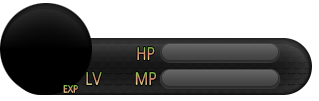
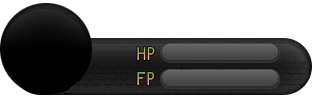
스킬 사용시 HUD가 즉각 반응 하도록 함
몬스터가 한 마리 이상 죽었을 때,
스킬 피격 판정에서 렉이 좀 심하게 걸리는 문제가 있음.

Changed region(s): [[0.1975, 0.7129, 0.3386, 0.9208], [0.4232, 0.7129, 0.5078, 0.8614]]

diff --git a/Project2/js/plugins.js b/Project2/js/plugins.js
@@ -12,7 +12,7 @@ var $plugins =
 {"name":"QuasiSight","status":true,"description":"v1.08\r\nQuasi Movement Addon: A line of sight script with real time shadow casting.\r\n<QuasiSight>","parameters":{"Show Sight":"true"}},
 {"name":"QuasiMovementPlus","status":true,"description":"Quasi Movement Addon: Adds extra features to Quasi Movement\r\nVersion 1.11","parameters":{"Extra Interaction Distance":"12","Dash on Mouse":"false","Face towards Mouse":"false","Disable Vertical Input":"false","Disable Horizontal Input":"false","Adjust Jump":"true"}},
 {"name":"QuasiABSHudA","status":true,"description":"v1.03 Adds a hud for Quasi ABS ( Version A )\n<QuasiABSHudA>","parameters":{"Show Unassigned Keys":"false"}},
-{"name":"RS_HUD_4m","status":true,"description":"(v1.2.2) This plugin draws the HUD, which displays the hp and mp and exp and level of each party members.","parameters":{"--- Image Name":"","EXP Gauge":"exr","Empty Gauge":"gauge","HP Gauge":"hp","MP Gauge":"mp","HUD Background":"hud_window_empty","Masking":"masking","--- Image Custom Position":"","Face Position":"0, 0, true","HP Position":"160, 43, true","MP Position":"160, 69, true","EXP Position":"83, 91, true","HP Text Position":"160, 53, true","MP Text Position":"160, 79, true","Level Text Position":"60, 80, true","EXP Text Position":"120.5, 93, true","Name Text Position":"54, 53, false","--- Noraml":"","Width":"317","Height":"101","Margin":"0","Gaussian Blur":"true","Show":"true","Opacity":"255","Arrangement":"['LeftBottom']","Anchor":"LeftTop","preloadImportantFaces":"['People3','Nature']","Battle Only":"false","Show Comma":"false","Max Exp Text":"------/------","Max Members":"1","--- Font":"","Chinese Font":"SimHei, Heiti TC, sans-serif","Korean Font":"NanumGothic, Dotum, AppleGothic, sans-serif","Standard Font":"GameFont","Level Text Size":"24","HP Text Size":"12","MP Text Size":"12","EXP Text Size":"12","Name Text Size":"12","--- Text Color":"","HP Color":"#ffffff","MP Color":"#ffffff","EXP Color":"#ffffff","Level Color":"#ffffff","Name Color":"#ffffff","--- Text Outline Color":"","HP Outline Color":"rgba(0, 0, 0, 0.5)","MP Outline Color":"rgba(0, 0, 0, 0.5)","EXP Outline Color":"rgba(0, 0, 0, 0.5)","Level Outline Color":"rgba(0, 0, 0, 0.5)","Name Outline Color":"rgba(0, 0, 0, 0.5)","--- Text Outline Width":"","HP Outline Width":"4","MP Outline Width":"4","EXP Outline Width":"4","Level Outline Width":"4","Name Outline Width":"4","--- Custom Font":"","Using Custom Font":"false","Custom Font Name":"NanumBrush","Custom Font Src":"fonts/NanumBrush.ttf","--- Custom HUD Anchor":"","Custom Pos 1":"0, (H * 0) + PD","Custom Pos 2":"0, (H * 1) + PD","Custom Pos 3":"0, (H * 2) + PD","Custom Pos 4":"0, (H * 3) + PD","Custom Pos 5":"0, (H * 4) + PD","Custom Pos 6":"W + PD, (H * 0) + PD","Custom Pos 7":"W + PD, (H * 1) + PD","Custom Pos 8":"W + PD, (H * 2) + PD","Custom Pos 9":"W + PD, (H * 3) + PD","Custom Pos 10":"W + PD, (H * 4) + PD"}},
+{"name":"RS_HUD_4m","status":true,"description":"(v1.2.2) This plugin draws the HUD, which displays the hp and mp and exp and level of each party members.","parameters":{"--- Image Name":"","EXP Gauge":"exr","Empty Gauge":"gauge","HP Gauge":"hp","MP Gauge":"mp","HUD Background":"hud_window_empty","Masking":"masking","--- Image Custom Position":"","Face Position":"0, 0, true","HP Position":"160, 43, true","MP Position":"160, 69, true","EXP Position":"83, 91, true","HP Text Position":"160, 53, true","MP Text Position":"160, 79, true","Level Text Position":"60, 80, false","EXP Text Position":"120.5, 93, false","Name Text Position":"54, 53, false","--- Noraml":"","Width":"317","Height":"101","Margin":"0","Gaussian Blur":"true","Show":"true","Opacity":"255","Arrangement":"['LeftBottom']","Anchor":"LeftTop","preloadImportantFaces":"['People3','Nature']","Battle Only":"false","Show Comma":"false","Max Exp Text":"------/------","Max Members":"1","--- Font":"","Chinese Font":"SimHei, Heiti TC, sans-serif","Korean Font":"NanumGothic, Dotum, AppleGothic, sans-serif","Standard Font":"GameFont","Level Text Size":"24","HP Text Size":"12","MP Text Size":"12","EXP Text Size":"12","Name Text Size":"12","--- Text Color":"","HP Color":"#ffffff","MP Color":"#ffffff","EXP Color":"#ffffff","Level Color":"#ffffff","Name Color":"#ffffff","--- Text Outline Color":"","HP Outline Color":"rgba(0, 0, 0, 0.5)","MP Outline Color":"rgba(0, 0, 0, 0.5)","EXP Outline Color":"rgba(0, 0, 0, 0.5)","Level Outline Color":"rgba(0, 0, 0, 0.5)","Name Outline Color":"rgba(0, 0, 0, 0.5)","--- Text Outline Width":"","HP Outline Width":"4","MP Outline Width":"4","EXP Outline Width":"4","Level Outline Width":"4","Name Outline Width":"4","--- Custom Font":"","Using Custom Font":"false","Custom Font Name":"NanumBrush","Custom Font Src":"fonts/NanumBrush.ttf","--- Custom HUD Anchor":"","Custom Pos 1":"0, (H * 0) + PD","Custom Pos 2":"0, (H * 1) + PD","Custom Pos 3":"0, (H * 2) + PD","Custom Pos 4":"0, (H * 3) + PD","Custom Pos 5":"0, (H * 4) + PD","Custom Pos 6":"W + PD, (H * 0) + PD","Custom Pos 7":"W + PD, (H * 1) + PD","Custom Pos 8":"W + PD, (H * 2) + PD","Custom Pos 9":"W + PD, (H * 3) + PD","Custom Pos 10":"W + PD, (H * 4) + PD"}},
 {"name":"RS_HUD_4m_InBattle","status":true,"description":"(v1.1.8) This plugin requires RS_HUD_4m.js","parameters":{"--- Image Name":"","HUD Battle Background":"hud_window_empty_inbattle","TP Gauge":"exr","--- Noraml":"","Auto Windows Alignment":"true","--- Text Settings":"","TP Position":"83, 91, true","TP Text Size":"12","TP Color":"#ffffff","TP Outline Color":"rgba(0, 0, 0, 0.5)","TP Outline Width":"4","Max Battle Members":"1","--- Custom HUD Anchor":"","Arrangement":"['Pos 1', 'Pos 2', 'Pos 3', 'Pos 4']","Pos 1":"[0, BH - (H * 2) - PD]","Pos 2":"[0, BH - H - PD]","Pos 3":"[W + PD, BH - (H * 2) - PD]","Pos 4":"[W + PD, BH - H - PD]","Pos 5":"[(W * 2) + PD, BH - (H * 2) - PD]","Pos 6":"[(W * 2) + PD, BH - H - PD]","Pos 7":"[(W * 3) + PD, BH - (H * 2) - PD]","Pos 8":"[(W * 3) + PD, BH - H - PD]","Pos 9":"[(W * 4) + PD, BH - (H * 2) - PD]","Pos 10":"[(W * 4) + PD, BH - H - PD]"}},
 {"name":"YEP_MainMenuManager","status":true,"description":"v1.02 This plugin allows you to manage the various aspects\r\nof your main menu.","parameters":{"---Command---":"","Command Alignment":"center","Command Position":"left","Command Columns":"1","Command Rows":"Math.min(10, Math.ceil(this.maxItems() / this.maxCols()))","Command Width":"240","Hide Actor Window":"true","Hide Gold Window":"false","Blurry Background":"true","---Menu 1---":"","Menu 1 Name":"","Menu 1 Symbol":"","Menu 1 Show":"","Menu 1 Enabled":"","Menu 1 Ext":"","Menu 1 Main Bind":"","Menu 1 Actor Bind":"","---Menu 2---":"","Menu 2 Name":"","Menu 2 Symbol":"","Menu 2 Show":"","Menu 2 Enabled":"","Menu 2 Ext":"","Menu 2 Main Bind":"","Menu 2 Actor Bind":"","---Menu 3---":"","Menu 3 Name":"","Menu 3 Symbol":"","Menu 3 Show":"","Menu 3 Enabled":"","Menu 3 Ext":"","Menu 3 Main Bind":"","Menu 3 Actor Bind":"","---Menu 4---":"","Menu 4 Name":"","Menu 4 Symbol":"","Menu 4 Show":"","Menu 4 Enabled":"","Menu 4 Ext":"","Menu 4 Main Bind":"","Menu 4 Actor Bind":"","---Menu 5---":"","Menu 5 Name":"","Menu 5 Symbol":"","Menu 5 Show":"","Menu 5 Enabled":"","Menu 5 Ext":"","Menu 5 Main Bind":"","Menu 5 Actor Bind":"","---Menu 6---":"","Menu 6 Name":"","Menu 6 Symbol":"","Menu 6 Show":"","Menu 6 Enabled":"","Menu 6 Ext":"","Menu 6 Main Bind":"","Menu 6 Actor Bind":"","---Menu 7---":"","Menu 7 Name":"","Menu 7 Symbol":"","Menu 7 Show":"","Menu 7 Enabled":"","Menu 7 Ext":"","Menu 7 Main Bind":"","Menu 7 Actor Bind":"","---Menu 8---":"","Menu 8 Name":"","Menu 8 Symbol":"","Menu 8 Show":"","Menu 8 Enabled":"","Menu 8 Ext":"","Menu 8 Main Bind":"","Menu 8 Actor Bind":"","---Menu 9---":"","Menu 9 Name":"","Menu 9 Symbol":"","Menu 9 Show":"","Menu 9 Enabled":"","Menu 9 Ext":"","Menu 9 Main Bind":"","Menu 9 Actor Bind":"","---Menu 10---":"","Menu 10 Name":"TextManager.item","Menu 10 Symbol":"item","Menu 10 Show":"this.needsCommand('item')","Menu 10 Enabled":"this.areMainCommandsEnabled()","Menu 10 Ext":"","Menu 10 Main Bind":"this.commandItem.bind(this)","Menu 10 Actor Bind":"","---Menu 11---":"","Menu 11 Name":"","Menu 11 Symbol":"","Menu 11 Show":"","Menu 11 Enabled":"","Menu 11 Ext":"","Menu 11 Main Bind":"","Menu 11 Actor Bind":"","---Menu 12---":"","Menu 12 Name":"","Menu 12 Symbol":"","Menu 12 Show":"","Menu 12 Enabled":"","Menu 12 Ext":"","Menu 12 Main Bind":"","Menu 12 Actor Bind":"","---Menu 13---":"","Menu 13 Name":"","Menu 13 Symbol":"","Menu 13 Show":"","Menu 13 Enabled":"","Menu 13 Ext":"","Menu 13 Main Bind":"","Menu 13 Actor Bind":"","---Menu 14---":"","Menu 14 Name":"","Menu 14 Symbol":"","Menu 14 Show":"","Menu 14 Enabled":"","Menu 14 Ext":"","Menu 14 Main Bind":"","Menu 14 Actor Bind":"","---Menu 15---":"","Menu 15 Name":"TextManager.skill","Menu 15 Symbol":"skill","Menu 15 Show":"this.needsCommand('skill')","Menu 15 Enabled":"this.areMainCommandsEnabled()","Menu 15 Ext":"","Menu 15 Main Bind":"this.commandPersonal.bind(this)","Menu 15 Actor Bind":"SceneManager.push(Scene_Skill)","---Menu 16---":"","Menu 16 Name":"","Menu 16 Symbol":"","Menu 16 Show":"","Menu 16 Enabled":"","Menu 16 Ext":"","Menu 16 Main Bind":"","Menu 16 Actor Bind":"","---Menu 17---":"","Menu 17 Name":"","Menu 17 Symbol":"","Menu 17 Show":"","Menu 17 Enabled":"","Menu 17 Ext":"","Menu 17 Main Bind":"","Menu 17 Actor Bind":"","---Menu 18---":"","Menu 18 Name":"","Menu 18 Symbol":"","Menu 18 Show":"","Menu 18 Enabled":"","Menu 18 Ext":"","Menu 18 Main Bind":"","Menu 18 Actor Bind":"","---Menu 19---":"","Menu 19 Name":"","Menu 19 Symbol":"","Menu 19 Show":"","Menu 19 Enabled":"","Menu 19 Ext":"","Menu 19 Main Bind":"","Menu 19 Actor Bind":"","---Menu 20---":"","Menu 20 Name":"TextManager.equip","Menu 20 Symbol":"equip","Menu 20 Show":"this.needsCommand('equip')","Menu 20 Enabled":"this.areMainCommandsEnabled()","Menu 20 Ext":"","Menu 20 Main Bind":"this.commandPersonal.bind(this)","Menu 20 Actor Bind":"SceneManager.push(Scene_Equip)","---Menu 21---":"","Menu 21 Name":"","Menu 21 Symbol":"","Menu 21 Show":"","Menu 21 Enabled":"","Menu 21 Ext":"","Menu 21 Main Bind":"","Menu 21 Actor Bind":"","---Menu 22---":"","Menu 22 Name":"","Menu 22 Symbol":"","Menu 22 Show":"","Menu 22 Enabled":"","Menu 22 Ext":"","Menu 22 Main Bind":"","Menu 22 Actor Bind":"","---Menu 23---":"","Menu 23 Name":"","Menu 23 Symbol":"","Menu 23 Show":"","Menu 23 Enabled":"","Menu 23 Ext":"","Menu 23 Main Bind":"","Menu 23 Actor Bind":"","---Menu 24---":"","Menu 24 Name":"","Menu 24 Symbol":"","Menu 24 Show":"","Menu 24 Enabled":"","Menu 24 Ext":"","Menu 24 Main Bind":"","Menu 24 Actor Bind":"","---Menu 25---":"","Menu 25 Name":"Yanfly.Param.CCCCmdName","Menu 25 Symbol":"class","Menu 25 Show":"Imported.YEP_ClassChangeCore && $gameSystem.isShowClass()","Menu 25 Enabled":"$gameSystem.isEnableClass() && this.areMainCommandsEnabled()","Menu 25 Ext":"","Menu 25 Main Bind":"this.commandPersonal.bind(this)","Menu 25 Actor Bind":"SceneManager.push(Scene_Class)","---Menu 26---":"","Menu 26 Name":"","Menu 26 Symbol":"","Menu 26 Show":"","Menu 26 Enabled":"","Menu 26 Ext":"","Menu 26 Main Bind":"","Menu 26 Actor Bind":"","---Menu 27---":"","Menu 27 Name":"","Menu 27 Symbol":"","Menu 27 Show":"","Menu 27 Enabled":"","Menu 27 Ext":"","Menu 27 Main Bind":"","Menu 27 Actor Bind":"","---Menu 28---":"","Menu 28 Name":"","Menu 28 Symbol":"","Menu 28 Show":"","Menu 28 Enabled":"","Menu 28 Ext":"","Menu 28 Main Bind":"","Menu 28 Actor Bind":"","---Menu 29---":"","Menu 29 Name":"","Menu 29 Symbol":"","Menu 29 Show":"","Menu 29 Enabled":"","Menu 29 Ext":"","Menu 29 Main Bind":"","Menu 29 Actor Bind":"","---Menu 30---":"","Menu 30 Name":"","Menu 30 Symbol":"","Menu 30 Show":"","Menu 30 Enabled":"","Menu 30 Ext":"","Menu 30 Main Bind":"","Menu 30 Actor Bind":"","---Menu 31---":"","Menu 31 Name":"","Menu 31 Symbol":"","Menu 31 Show":"","Menu 31 Enabled":"","Menu 31 Ext":"","Menu 31 Main Bind":"","Menu 31 Actor Bind":"","---Menu 32---":"","Menu 32 Name":"","Menu 32 Symbol":"","Menu 32 Show":"","Menu 32 Enabled":"","Menu 32 Ext":"","Menu 32 Main Bind":"","Menu 32 Actor Bind":"","---Menu 33---":"","Menu 33 Name":"","Menu 33 Symbol":"","Menu 33 Show":"","Menu 33 Enabled":"","Menu 33 Ext":"","Menu 33 Main Bind":"","Menu 33 Actor Bind":"","---Menu 34---":"","Menu 34 Name":"","Menu 34 Symbol":"","Menu 34 Show":"","Menu 34 Enabled":"","Menu 34 Ext":"","Menu 34 Main Bind":"","Menu 34 Actor Bind":"","---Menu 35---":"","Menu 35 Name":"","Menu 35 Symbol":"","Menu 35 Show":"","Menu 35 Enabled":"","Menu 35 Ext":"","Menu 35 Main Bind":"","Menu 35 Actor Bind":"","---Menu 36---":"","Menu 36 Name":"","Menu 36 Symbol":"","Menu 36 Show":"","Menu 36 Enabled":"","Menu 36 Ext":"","Menu 36 Main Bind":"","Menu 36 Actor Bind":"","---Menu 37---":"","Menu 37 Name":"","Menu 37 Symbol":"","Menu 37 Show":"","Menu 37 Enabled":"","Menu 37 Ext":"","Menu 37 Main Bind":"","Menu 37 Actor Bind":"","---Menu 38---":"","Menu 38 Name":"","Menu 38 Symbol":"","Menu 38 Show":"","Menu 38 Enabled":"","Menu 38 Ext":"","Menu 38 Main Bind":"","Menu 38 Actor Bind":"","---Menu 39---":"","Menu 39 Name":"","Menu 39 Symbol":"","Menu 39 Show":"","Menu 39 Enabled":"","Menu 39 Ext":"","Menu 39 Main Bind":"","Menu 39 Actor Bind":"","---Menu 40---":"","Menu 40 Name":"","Menu 40 Symbol":"","Menu 40 Show":"","Menu 40 Enabled":"","Menu 40 Ext":"","Menu 40 Main Bind":"","Menu 40 Actor Bind":"","---Menu 41---":"","Menu 41 Name":"","Menu 41 Symbol":"","Menu 41 Show":"","Menu 41 Enabled":"","Menu 41 Ext":"","Menu 41 Main Bind":"","Menu 41 Actor Bind":"","---Menu 42---":"","Menu 42 Name":"","Menu 42 Symbol":"","Menu 42 Show":"","Menu 42 Enabled":"","Menu 42 Ext":"","Menu 42 Main Bind":"","Menu 42 Actor Bind":"","---Menu 43---":"","Menu 43 Name":"","Menu 43 Symbol":"","Menu 43 Show":"","Menu 43 Enabled":"","Menu 43 Ext":"","Menu 43 Main Bind":"","Menu 43 Actor Bind":"","---Menu 44---":"","Menu 44 Name":"","Menu 44 Symbol":"","Menu 44 Show":"","Menu 44 Enabled":"","Menu 44 Ext":"","Menu 44 Main Bind":"","Menu 44 Actor Bind":"","---Menu 45---":"","Menu 45 Name":"","Menu 45 Symbol":"","Menu 45 Show":"","Menu 45 Enabled":"","Menu 45 Ext":"","Menu 45 Main Bind":"","Menu 45 Actor Bind":"","---Menu 46---":"","Menu 46 Name":"","Menu 46 Symbol":"","Menu 46 Show":"","Menu 46 Enabled":"","Menu 46 Ext":"","Menu 46 Main Bind":"","Menu 46 Actor Bind":"","---Menu 47---":"","Menu 47 Name":"","Menu 47 Symbol":"","Menu 47 Show":"","Menu 47 Enabled":"","Menu 47 Ext":"","Menu 47 Main Bind":"","Menu 47 Actor Bind":"","---Menu 48---":"","Menu 48 Name":"","Menu 48 Symbol":"","Menu 48 Show":"","Menu 48 Enabled":"","Menu 48 Ext":"","Menu 48 Main Bind":"","Menu 48 Actor Bind":"","---Menu 49---":"","Menu 49 Name":"","Menu 49 Symbol":"","Menu 49 Show":"","Menu 49 Enabled":"","Menu 49 Ext":"","Menu 49 Main Bind":"","Menu 49 Actor Bind":"","---Menu 50---":"","Menu 50 Name":"TextManager.status","Menu 50 Symbol":"status","Menu 50 Show":"this.needsCommand('status')","Menu 50 Enabled":"this.areMainCommandsEnabled()","Menu 50 Ext":"","Menu 50 Main Bind":"this.commandPersonal.bind(this)","Menu 50 Actor Bind":"SceneManager.push(Scene_Status)","---Menu 51---":"","Menu 51 Name":"","Menu 51 Symbol":"","Menu 51 Show":"","Menu 51 Enabled":"","Menu 51 Ext":"","Menu 51 Main Bind":"","Menu 51 Actor Bind":"","---Menu 52---":"","Menu 52 Name":"","Menu 52 Symbol":"","Menu 52 Show":"","Menu 52 Enabled":"","Menu 52 Ext":"","Menu 52 Main Bind":"","Menu 52 Actor Bind":"","---Menu 53---":"","Menu 53 Name":"","Menu 53 Symbol":"","Menu 53 Show":"","Menu 53 Enabled":"","Menu 53 Ext":"","Menu 53 Main Bind":"","Menu 53 Actor Bind":"","---Menu 54---":"","Menu 54 Name":"","Menu 54 Symbol":"","Menu 54 Show":"","Menu 54 Enabled":"","Menu 54 Ext":"","Menu 54 Main Bind":"","Menu 54 Actor Bind":"","---Menu 55---":"","Menu 55 Name":"TextManager.formation","Menu 55 Symbol":"formation","Menu 55 Show":"this.needsCommand('formation')","Menu 55 Enabled":"this.isFormationEnabled()","Menu 55 Ext":"","Menu 55 Main Bind":"this.commandFormation.bind(this)","Menu 55 Actor Bind":"","---Menu 56---":"","Menu 56 Name":"","Menu 56 Symbol":"","Menu 56 Show":"","Menu 56 Enabled":"","Menu 56 Ext":"","Menu 56 Main Bind":"","Menu 56 Actor Bind":"","---Menu 57---":"","Menu 57 Name":"","Menu 57 Symbol":"","Menu 57 Show":"","Menu 57 Enabled":"","Menu 57 Ext":"","Menu 57 Main Bind":"","Menu 57 Actor Bind":"","---Menu 58---":"","Menu 58 Name":"","Menu 58 Symbol":"","Menu 58 Show":"","Menu 58 Enabled":"","Menu 58 Ext":"","Menu 58 Main Bind":"","Menu 58 Actor Bind":"","---Menu 59---":"","Menu 59 Name":"","Menu 59 Symbol":"","Menu 59 Show":"","Menu 59 Enabled":"","Menu 59 Ext":"","Menu 59 Main Bind":"","Menu 59 Actor Bind":"","---Menu 60---":"","Menu 60 Name":"","Menu 60 Symbol":"","Menu 60 Show":"","Menu 60 Enabled":"","Menu 60 Ext":"","Menu 60 Main Bind":"","Menu 60 Actor Bind":"","---Menu 61---":"","Menu 61 Name":"","Menu 61 Symbol":"","Menu 61 Show":"","Menu 61 Enabled":"","Menu 61 Ext":"","Menu 61 Main Bind":"","Menu 61 Actor Bind":"","---Menu 62---":"","Menu 62 Name":"","Menu 62 Symbol":"","Menu 62 Show":"","Menu 62 Enabled":"","Menu 62 Ext":"","Menu 62 Main Bind":"","Menu 62 Actor Bind":"","---Menu 63---":"","Menu 63 Name":"","Menu 63 Symbol":"","Menu 63 Show":"","Menu 63 Enabled":"","Menu 63 Ext":"","Menu 63 Main Bind":"","Menu 63 Actor Bind":"","---Menu 64---":"","Menu 64 Name":"","Menu 64 Symbol":"","Menu 64 Show":"","Menu 64 Enabled":"","Menu 64 Ext":"","Menu 64 Main Bind":"","Menu 64 Actor Bind":"","---Menu 65---":"","Menu 65 Name":"","Menu 65 Symbol":"","Menu 65 Show":"","Menu 65 Enabled":"","Menu 65 Ext":"","Menu 65 Main Bind":"","Menu 65 Actor Bind":"","---Menu 66---":"","Menu 66 Name":"","Menu 66 Symbol":"","Menu 66 Show":"","Menu 66 Enabled":"","Menu 66 Ext":"","Menu 66 Main Bind":"","Menu 66 Actor Bind":"","---Menu 67---":"","Menu 67 Name":"","Menu 67 Symbol":"","Menu 67 Show":"","Menu 67 Enabled":"","Menu 67 Ext":"","Menu 67 Main Bind":"","Menu 67 Actor Bind":"","---Menu 68---":"","Menu 68 Name":"","Menu 68 Symbol":"","Menu 68 Show":"","Menu 68 Enabled":"","Menu 68 Ext":"","Menu 68 Main Bind":"","Menu 68 Actor Bind":"","---Menu 69---":"","Menu 69 Name":"","Menu 69 Symbol":"","Menu 69 Show":"","Menu 69 Enabled":"","Menu 69 Ext":"","Menu 69 Main Bind":"","Menu 69 Actor Bind":"","---Menu 70---":"","Menu 70 Name":"","Menu 70 Symbol":"","Menu 70 Show":"","Menu 70 Enabled":"","Menu 70 Ext":"","Menu 70 Main Bind":"","Menu 70 Actor Bind":"","---Menu 71---":"","Menu 71 Name":"","Menu 71 Symbol":"","Menu 71 Show":"","Menu 71 Enabled":"","Menu 71 Ext":"","Menu 71 Main Bind":"","Menu 71 Actor Bind":"","---Menu 72---":"","Menu 72 Name":"","Menu 72 Symbol":"","Menu 72 Show":"","Menu 72 Enabled":"","Menu 72 Ext":"","Menu 72 Main Bind":"","Menu 72 Actor Bind":"","---Menu 73---":"","Menu 73 Name":"","Menu 73 Symbol":"","Menu 73 Show":"","Menu 73 Enabled":"","Menu 73 Ext":"","Menu 73 Main Bind":"","Menu 73 Actor Bind":"","---Menu 74---":"","Menu 74 Name":"","Menu 74 Symbol":"","Menu 74 Show":"","Menu 74 Enabled":"","Menu 74 Ext":"","Menu 74 Main Bind":"","Menu 74 Actor Bind":"","---Menu 75---":"","Menu 75 Name":"","Menu 75 Symbol":"","Menu 75 Show":"","Menu 75 Enabled":"","Menu 75 Ext":"","Menu 75 Main Bind":"","Menu 75 Actor Bind":"","---Menu 76---":"","Menu 76 Name":"","Menu 76 Symbol":"","Menu 76 Show":"","Menu 76 Enabled":"","Menu 76 Ext":"","Menu 76 Main Bind":"","Menu 76 Actor Bind":"","---Menu 77---":"","Menu 77 Name":"","Menu 77 Symbol":"","Menu 77 Show":"","Menu 77 Enabled":"","Menu 77 Ext":"","Menu 77 Main Bind":"","Menu 77 Actor Bind":"","---Menu 78---":"","Menu 78 Name":"","Menu 78 Symbol":"","Menu 78 Show":"","Menu 78 Enabled":"","Menu 78 Ext":"","Menu 78 Main Bind":"","Menu 78 Actor Bind":"","---Menu 79---":"","Menu 79 Name":"","Menu 79 Symbol":"","Menu 79 Show":"","Menu 79 Enabled":"","Menu 79 Ext":"","Menu 79 Main Bind":"","Menu 79 Actor Bind":"","---Menu 80---":"","Menu 80 Name":"","Menu 80 Symbol":"","Menu 80 Show":"","Menu 80 Enabled":"","Menu 80 Ext":"","Menu 80 Main Bind":"","Menu 80 Actor Bind":"","---Menu 81---":"","Menu 81 Name":"'Common Event 1'","Menu 81 Symbol":"common event","Menu 81 Show":"true","Menu 81 Enabled":"true","Menu 81 Ext":"1","Menu 81 Main Bind":"this.callCommonEvent.bind(this)","Menu 81 Actor Bind":"","---Menu 82---":"","Menu 82 Name":"'Common Event 2'","Menu 82 Symbol":"common event","Menu 82 Show":"false","Menu 82 Enabled":"true","Menu 82 Ext":"2","Menu 82 Main Bind":"this.callCommonEvent.bind(this)","Menu 82 Actor Bind":"","---Menu 83---":"","Menu 83 Name":"'Common Event 3'","Menu 83 Symbol":"common event","Menu 83 Show":"false","Menu 83 Enabled":"true","Menu 83 Ext":"3","Menu 83 Main Bind":"this.callCommonEvent.bind(this)","Menu 83 Actor Bind":"","---Menu 84---":"","Menu 84 Name":"","Menu 84 Symbol":"","Menu 84 Show":"","Menu 84 Enabled":"","Menu 84 Ext":"","Menu 84 Main Bind":"","Menu 84 Actor Bind":"","---Menu 85---":"","Menu 85 Name":"","Menu 85 Symbol":"","Menu 85 Show":"","Menu 85 Enabled":"","Menu 85 Ext":"","Menu 85 Main Bind":"","Menu 85 Actor Bind":"","---Menu 86---":"","Menu 86 Name":"","Menu 86 Symbol":"","Menu 86 Show":"","Menu 86 Enabled":"","Menu 86 Ext":"","Menu 86 Main Bind":"","Menu 86 Actor Bind":"","---Menu 87---":"","Menu 87 Name":"","Menu 87 Symbol":"","Menu 87 Show":"","Menu 87 Enabled":"","Menu 87 Ext":"","Menu 87 Main Bind":"","Menu 87 Actor Bind":"","---Menu 88---":"","Menu 88 Name":"","Menu 88 Symbol":"","Menu 88 Show":"","Menu 88 Enabled":"","Menu 88 Ext":"","Menu 88 Main Bind":"","Menu 88 Actor Bind":"","---Menu 89---":"","Menu 89 Name":"","Menu 89 Symbol":"","Menu 89 Show":"","Menu 89 Enabled":"","Menu 89 Ext":"","Menu 89 Main Bind":"","Menu 89 Actor Bind":"","---Menu 90---":"","Menu 90 Name":"TextManager.options","Menu 90 Symbol":"options","Menu 90 Show":"this.needsCommand('options')","Menu 90 Enabled":"this.isOptionsEnabled()","Menu 90 Ext":"","Menu 90 Main Bind":"this.commandOptions.bind(this)","Menu 90 Actor Bind":"","---Menu 91---":"","Menu 91 Name":"","Menu 91 Symbol":"","Menu 91 Show":"","Menu 91 Enabled":"","Menu 91 Ext":"","Menu 91 Main Bind":"","Menu 91 Actor Bind":"","---Menu 92---":"","Menu 92 Name":"","Menu 92 Symbol":"","Menu 92 Show":"","Menu 92 Enabled":"","Menu 92 Ext":"","Menu 92 Main Bind":"","Menu 92 Actor Bind":"","---Menu 93---":"","Menu 93 Name":"","Menu 93 Symbol":"","Menu 93 Show":"","Menu 93 Enabled":"","Menu 93 Ext":"","Menu 93 Main Bind":"","Menu 93 Actor Bind":"","---Menu 94---":"","Menu 94 Name":"","Menu 94 Symbol":"","Menu 94 Show":"","Menu 94 Enabled":"","Menu 94 Ext":"","Menu 94 Main Bind":"","Menu 94 Actor Bind":"","---Menu 95---":"","Menu 95 Name":"TextManager.save","Menu 95 Symbol":"save","Menu 95 Show":"this.needsCommand('save')","Menu 95 Enabled":"this.isSaveEnabled()","Menu 95 Ext":"","Menu 95 Main Bind":"this.commandSave.bind(this)","Menu 95 Actor Bind":"","---Menu 96---":"","Menu 96 Name":"","Menu 96 Symbol":"","Menu 96 Show":"","Menu 96 Enabled":"","Menu 96 Ext":"","Menu 96 Main Bind":"","Menu 96 Actor Bind":"","---Menu 97---":"","Menu 97 Name":"","Menu 97 Symbol":"","Menu 97 Show":"","Menu 97 Enabled":"","Menu 97 Ext":"","Menu 97 Main Bind":"","Menu 97 Actor Bind":"","---Menu 98---":"","Menu 98 Name":"","Menu 98 Symbol":"","Menu 98 Show":"","Menu 98 Enabled":"","Menu 98 Ext":"","Menu 98 Main Bind":"","Menu 98 Actor Bind":"","---Menu 99---":"","Menu 99 Name":"'Debug'","Menu 99 Symbol":"debug","Menu 99 Show":"$gameTemp.isPlaytest()","Menu 99 Enabled":"true","Menu 99 Ext":"","Menu 99 Main Bind":"this.commandDebug.bind(this)","Menu 99 Actor Bind":"","---Menu 100---":"","Menu 100 Name":"TextManager.gameEnd","Menu 100 Symbol":"gameEnd","Menu 100 Show":"true","Menu 100 Enabled":"this.isGameEndEnabled()","Menu 100 Ext":"","Menu 100 Main Bind":"this.commandGameEnd.bind(this)","Menu 100 Actor Bind":""}},
 {"name":"TerraxLighting","status":false,"description":"v1.4.5 Creates an extra layer that darkens a map and adds lightsources!","parameters":{"Player radius":"250","Add to options":"Yes","Option menu entry":"Lighting effects","Reset Lights":"No","Save DaynightHours":"0","Save DaynightMinutes":"0","Save DaynightSeconds":"0","Flashlight offset":"0","Screensize X":"866","Screensize Y":"630","Kill Switch":"No"}},

diff --git a/Project2/js/plugins/QuasiABS.js b/Project2/js/plugins/QuasiABS.js
@@ -2575,9 +2575,9 @@ var QuasiABS = {};
     if (!this.canUseSkill(skillId)) return;
     //OZ 2016.03.01 - some skill consumes item
     if (QuasiABS._skillSettings[skillId].requireditem){
-      requied_item = QuasiABS._skillSettings[skillId].requireditem
-      if($gameParty.itemContainer($dataItems[requied_item])[requied_item]>0)
-        $gameParty.itemContainer($dataItems[requied_item])[requied_item]--;
+      required_item = QuasiABS._skillSettings[skillId].requireditem
+      if($gameParty.itemContainer($dataItems[required_item])[required_item]>0)
+        $gameParty.itemContainer($dataItems[required_item])[required_item]--;
       else return;      
     } 
     if (this._groundtargeting) {
@@ -2606,6 +2606,8 @@ var QuasiABS = {};
     // This function only runs from .useSkill() not .forceSkill()
     if (!this._groundtargeting) {
       this.battler().paySkillCost($dataSkills[skillId]);
+      //OZ 2017.03.01
+      $gameHud.refresh();
     }
   };
 
